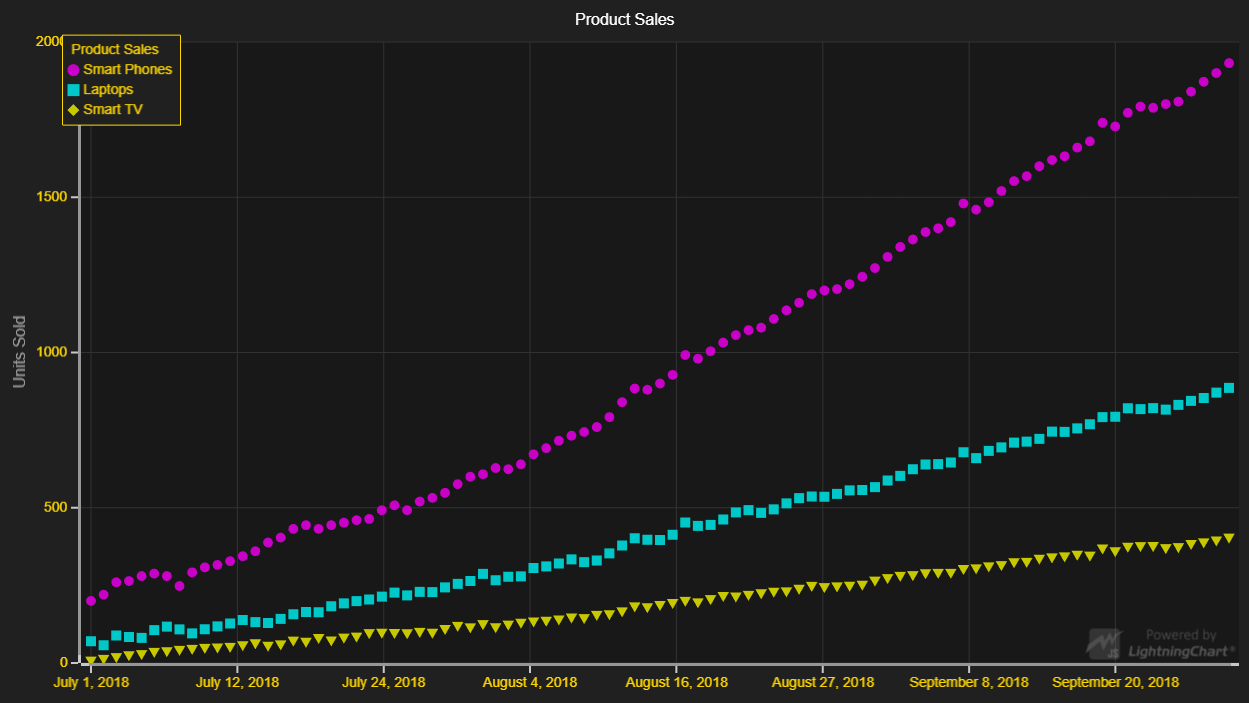
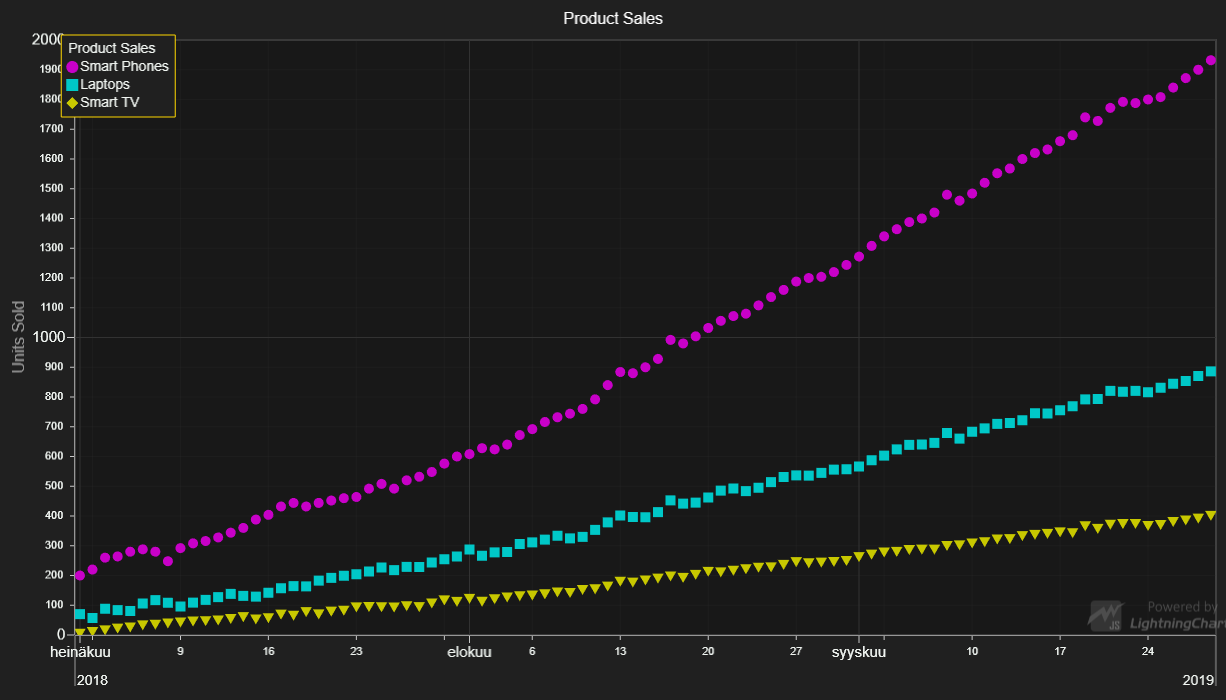
LCJS 2.0.0

diff --git a/src/index.js b/src/index.js
@@ -15,15 +15,21 @@ const {
     UIElementBuilders,
     UIButtonPictures,
     UIOrigins,
-    LegendBoxBuilders
+    LegendBoxBuilders,
+    Themes
 } = lcjs
 
-// Create a XY Chart.
+// Decide on an origin for DateTime axis.
 const dateOrigin = new Date(2018, 6, 1)
+// Create a XY Chart.
 const chart = lightningChart().ChartXY({
-    defaultAxisXTickStrategy: AxisTickStrategies.DateTime(dateOrigin)
+    // theme: Themes.dark
 })
-    .setTitle('Product Sales')
+
+// Modify the default X Axis to use DateTime TickStrategy, and set the origin for the DateTime Axis.
+chart.getDefaultAxisX().setTickStrategy(AxisTickStrategies.DateTime, (tickStrategy) => tickStrategy.setDateOrigin(dateOrigin))
+
+chart.setTitle('Product Sales')
     .setAutoCursor(cursor => {
         cursor.disposeTickMarkerY()
         cursor.setGridStrokeYStyle(emptyLine)

diff --git a/README.md b/README.md
@@ -108,11 +108,11 @@ As it was mentioned before, the series accepts points in format `{ x: number, y:
 
 ## API Links
 
-* XY cartesian chart: [ChartXY]
-* RGBA color factory: [ColorRGBA]
-* Point series: [PointSeries]
-* Point Shape options: [PointShape]
-* Random trace data generator: [TraceGenerator]
+* [XY cartesian chart]
+* [RGBA color factory]
+* [Point series]
+* [Point Shape options]
+* [Random trace data generator]
 
 
 ## Support
@@ -136,9 +136,9 @@ Direct developer email support can be purchased through a [Support Plan][4] or b
 © Arction Ltd 2009-2020. All rights reserved.
 
 
-[ChartXY]: https://www.arction.com/lightningchart-js-api-documentation/v1.3.0/classes/chartxy.html
-[ColorRGBA]: https://www.arction.com/lightningchart-js-api-documentation/v1.3.0/globals.html#colorrgba
-[PointSeries]: https://www.arction.com/lightningchart-js-api-documentation/v1.3.0/classes/pointseries.html
-[PointShape]: https://www.arction.com/lightningchart-js-api-documentation/v1.3.0/enums/pointshape.html
-[TraceGenerator]: https://arction.github.io/xydata/classes/tracegenerator.html
+[XY cartesian chart]: https://www.arction.com/lightningchart-js-api-documentation/v2.0.0/classes/chartxy.html
+[RGBA color factory]: https://www.arction.com/lightningchart-js-api-documentation/v2.0.0/globals.html#colorrgba
+[Point series]: https://www.arction.com/lightningchart-js-api-documentation/v2.0.0/classes/pointseries.html
+[Point Shape options]: https://www.arction.com/lightningchart-js-api-documentation/v2.0.0/enums/pointshape.html
+[Random trace data generator]: https://arction.github.io/xydata/classes/tracegenerator.html
 
